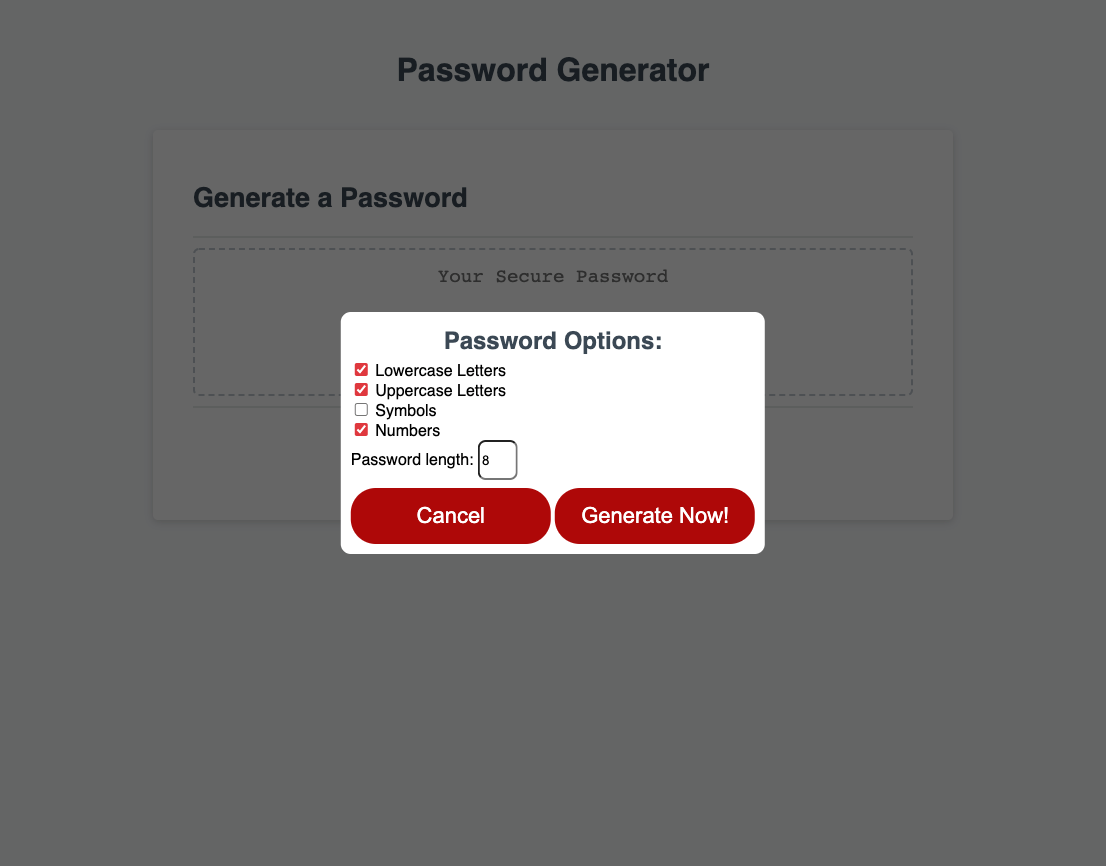
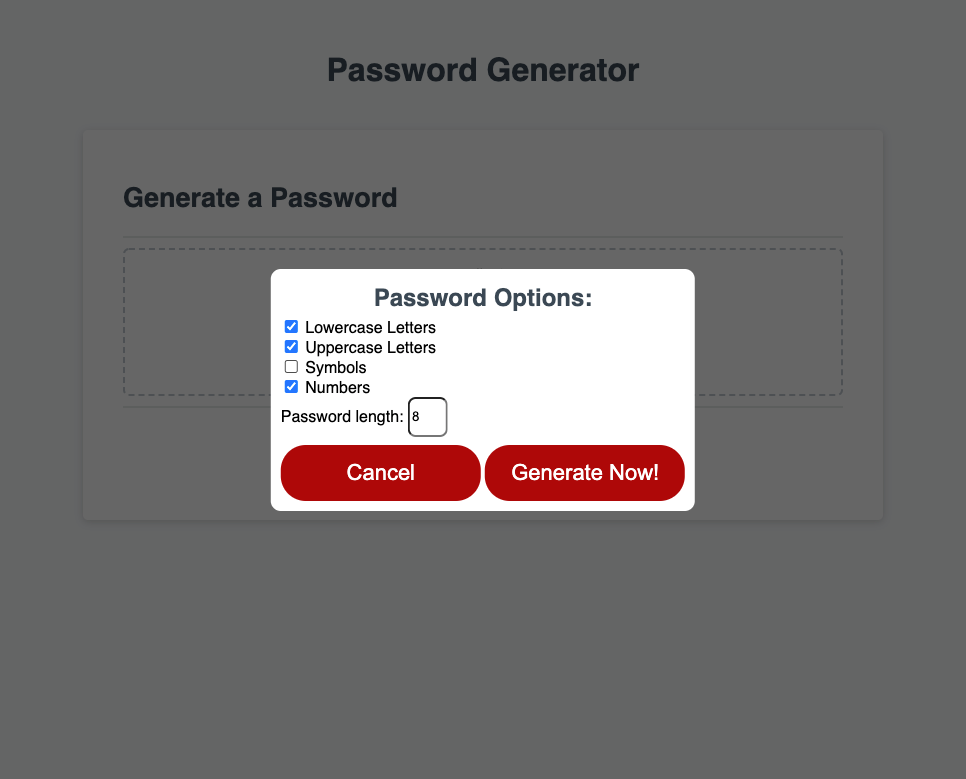
fixed but with length and add check for no checkboxes selected

Changed region(s): [[0.2795, 0.3081, 0.7453, 0.6778], [0.3416, 0.0616, 0.6522, 0.1232], [0.1242, 0.2157, 0.4348, 0.2773]]

diff --git a/script.js b/script.js
@@ -2,7 +2,8 @@
 //-----------------------------------------------
 // Variable Setup
 //-----------------------------------------------
-var length = 5;
+var length = 0;
+var counter = 0;
 var upper = 'false';
 var lower = 'false';
 var number = 'false';
@@ -58,36 +59,41 @@ function generateVariable(selector) {
 //-----------------------------------------------
 function generatePassword() {
 
-  //check length and assign
-  if(lengthEl.value >=8 && lengthEl.value <= 128) {
-    length = lengthEl.value;
+  //verify that something is selected 
+  if(counter !== 0) {
+    //check length and assign
+    if(lengthEl.value >=8 && lengthEl.value <= 128) {
+      length = lengthEl.value;
 
-    for(var i = 0; i < length; i+=4) {
-      if (upper === 'true') {
-        generateVariable('upperCase');
-      }
+      for(var i = 0; i < length; i+=counter) {
+        if (upper === 'true') {
+          generateVariable('upperCase');
+        }
+        
+        if (lower === 'true') {
+          generateVariable('lowerCase');
+        }
       
-      if (lower === 'true') {
-        generateVariable('lowerCase');
+        if (number === 'true') {
+          generateVariable('numbers');
+        }
+      
+        if (symbol === 'true') {
+          generateVariable('symbols');
+        }
       }
     
-      if (number === 'true') {
-        generateVariable('numbers');
-      }
-    
-      if (symbol === 'true') {
-        generateVariable('symbols');
-      }
+      //print to the screen withouth any charecters in array and ensure length is correct since 
+      //if odd number is selected length will be too long
+      return passwordArray.join("").slice(0,length);
+    } else {
+      alert("Password length must be between 8 to 128 characters")
     }
-  
-    //print to the screen withouth any charecters in array and ensure length is correct since 
-    //if odd number is selected length will be too long
-    return passwordArray.join("").slice(0,length);
   } else {
-    alert("Password length must be between 8 to 128 characters")
+      alert("Please select at least one option!")
   }
-
 }
+
 
 //-----------------------------------------------
 // Popup Box Features
@@ -106,32 +112,40 @@ function closePopUp() {
 function addLowercase() {
   if(lower === 'false') {
     lower = 'true';
+    counter++;
   } else {
     lower = 'false'
+    counter--;
   }
 }
 
 function addUppercase() {
   if(upper === 'false') {
     upper = 'true';
+    counter++;
   } else {
     upper = 'false'
+    counter--;
   }
 }
 
 function addSymbols() {
   if(symbol === 'false') {
     symbol = 'true';
+    counter++;
   } else {
     symbol = 'false'
+    counter--;
   }
 }
 
 function addNumbers() {
   if(number === 'false') {
     number = 'true';
+    counter++;
   } else {
     number = 'false'
+    counter--;
   }
 }
 
@@ -147,7 +161,7 @@ function writePassword() {
   var passwordText = document.querySelector("#password");
 
   passwordArray = [] //reset the array
-  passwordText.value = password//.slice(0,length); //verify password is correct length
+  passwordText.value = password
 
   closePopUp();
 }

diff --git a/style.css b/style.css
@@ -170,8 +170,6 @@ button[disabled] {
   background: lightslategray;
 }
 
-
-
 @media (max-width: 690px) {
   .btn {
     font-size: 1rem;
